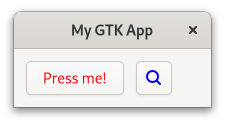
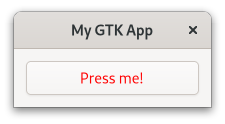
book: Continue with css chapter

Changed region(s): [[0.1867, 0.4839, 0.7156, 0.7742], [0.7467, 0.4839, 0.8711, 0.7742], [0.8711, 0.5081, 0.9022, 0.75]]

diff --git a/book/listings/todo_app/3/style.css b/book/listings/todo_app/3/style.css
@@ -1,3 +1,3 @@
-.todo_row {
-  border: 1px solid @borders;
+box.todo_row {
+  border: 1px solid gray;
 }

diff --git a/book/listings/css/2/style.css b/book/listings/css/2/style.css
@@ -1,8 +1,3 @@
 button.text-button {
   color: red;
 }
-
-button.image-button {
-  color: blue;
-}
-

diff --git a/book/listings/css/2/main.rs b/book/listings/css/2/main.rs
@@ -30,29 +30,21 @@ fn load_css() {
     );
 }
 
-// ANCHOR: build_ui
 fn build_ui(app: &Application) {
-    // Create buttons
-    let button_1 = Button::with_label("Press me!");
-    let button_2 = Button::from_icon_name(Some("edit-find-symbolic"));
-
-    // Create `gtk_box` and add buttons
-    let gtk_box = gtk::Box::builder()
+    // Create button
+    let button = Button::builder()
+        .label("Press me!")
         .margin_top(12)
         .margin_bottom(12)
         .margin_start(12)
         .margin_end(12)
-        .spacing(12)
         .build();
-    gtk_box.append(&button_1);
-    gtk_box.append(&button_2);
 
     // Create a new window and show it
     let window = ApplicationWindow::builder()
         .application(app)
         .title("My GTK App")
-        .child(&gtk_box)
+        .child(&button)
         .build();
     window.show();
 }
-// ANCHOR_END: build_ui

diff --git a/book/listings/css/3/main.rs b/book/listings/css/3/main.rs
@@ -30,6 +30,7 @@ fn load_css() {
     );
 }
 
+// ANCHOR: build_ui
 fn build_ui(app: &Application) {
     // ANCHOR: buttons
     // Create buttons
@@ -58,3 +59,4 @@ fn build_ui(app: &Application) {
         .build();
     window.show();
 }
+// ANCHOR_END: build_ui

diff --git a/book/src/css.md b/book/src/css.md
@@ -44,13 +44,7 @@ If you are not already familiar with CSS, now would be a good time to make yours
 ### Classes Applied by GTK
 
 
-[Icon Library](https://apps.gnome.org/de/app/org.gnome.design.IconLibrary/)
 
-<span class="filename">Filename: listings/css/2/main.rs</span>
-
-```rust ,no_run,noplayground
-{{#rustdoc_include ../listings/css/2/main.rs:build_ui}}
-```
 
 <span class="filename">Filename: listings/css/2/style.css</span>
 
@@ -61,6 +55,13 @@ If you are not already familiar with CSS, now would be a good time to make yours
 <div style="text-align:center"><img src="img/css_2.png"/></div>
 
 ### Classes Applied Manually
+
+<span class="filename">Filename: listings/css/3/main.rs</span>
+
+```rust ,no_run,noplayground
+{{#rustdoc_include ../listings/css/3/main.rs:build_ui}}
+```
+
 
 
 <span class="filename">Filename: listings/css/3/main.rs</span>
@@ -120,6 +121,9 @@ Your browser does not support the video tag.
 
 ## Nodes
 
+[Icon Library](https://apps.gnome.org/de/app/org.gnome.design.IconLibrary/)
+
+
 <span class="filename">Filename: listings/css/7/window/window.ui</span>
 
 ```xml
@@ -144,3 +148,20 @@ Your browser does not support the video tag.
 ```
 
 <div style="text-align:center"><img src="img/css_8.png"/></div>
+
+
+## To-Do App
+
+<span class="filename">Filename: listings/todo_app/3/todo_row/todo_row.ui</span>
+
+```xml
+{{#rustdoc_include ../listings/todo_app/3/todo_row/todo_row.ui}}
+```
+
+<span class="filename">Filename: listings/todo_app/3/style.css</span>
+
+```css
+{{#rustdoc_include ../listings/todo_app/3/style.css}}
+```
+
+<div style="text-align:center"><img src="img/todo_app_3_border.png"/></div>
